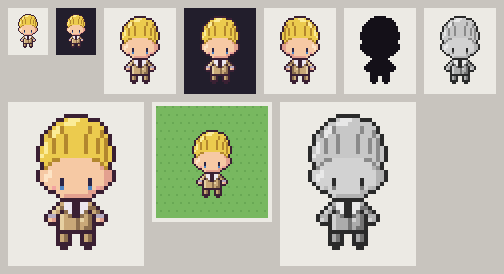
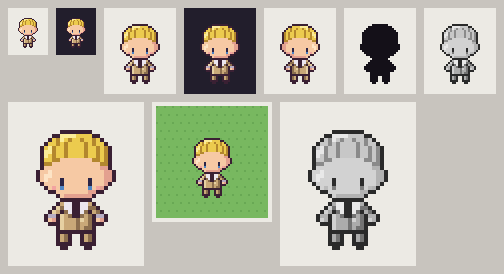
Test 13 costume : cheveux plaqués collés au crâne, sans volume
Claude-Session: https://claude.ai/code/session_013wkJTCTwukCLdUSFsReJoa

diff --git a/methode_dessin/test13_chibi_template/costume/NOTES.md b/methode_dessin/test13_chibi_template/costume/NOTES.md
@@ -35,3 +35,4 @@ la tenue changent ; corps, peau, yeux et trait du template restent ceux du test 
 - Un reflet h en haut à gauche donne l'effet plaqué et brillant.
 - Abandonné : des pointes à la nuque derrière les oreilles. Trop fines, elles se lisaient comme des couettes ou des antennes.
 - Retour suivant : « base des cheveux trop haute ». La naissance des cheveux est descendue de 2 rangées : la peau du front commence à la rangée 13 au centre au lieu de 11. Les lignes de mèches ont été prolongées d'autant.
+- Retour suivant : « des cheveux plaqués ne doivent pas être volumineux ». La masse ne dépasse plus le trait du crâne que de 1 px, sans bosse au sommet ni débord sur les côtés. La silhouette du personnage suit donc presque exactement le crâne du template. Leçon : pour une coiffure plaquée, c'est le dessin des mèches et le reflet qui montrent le style, pas le volume.
